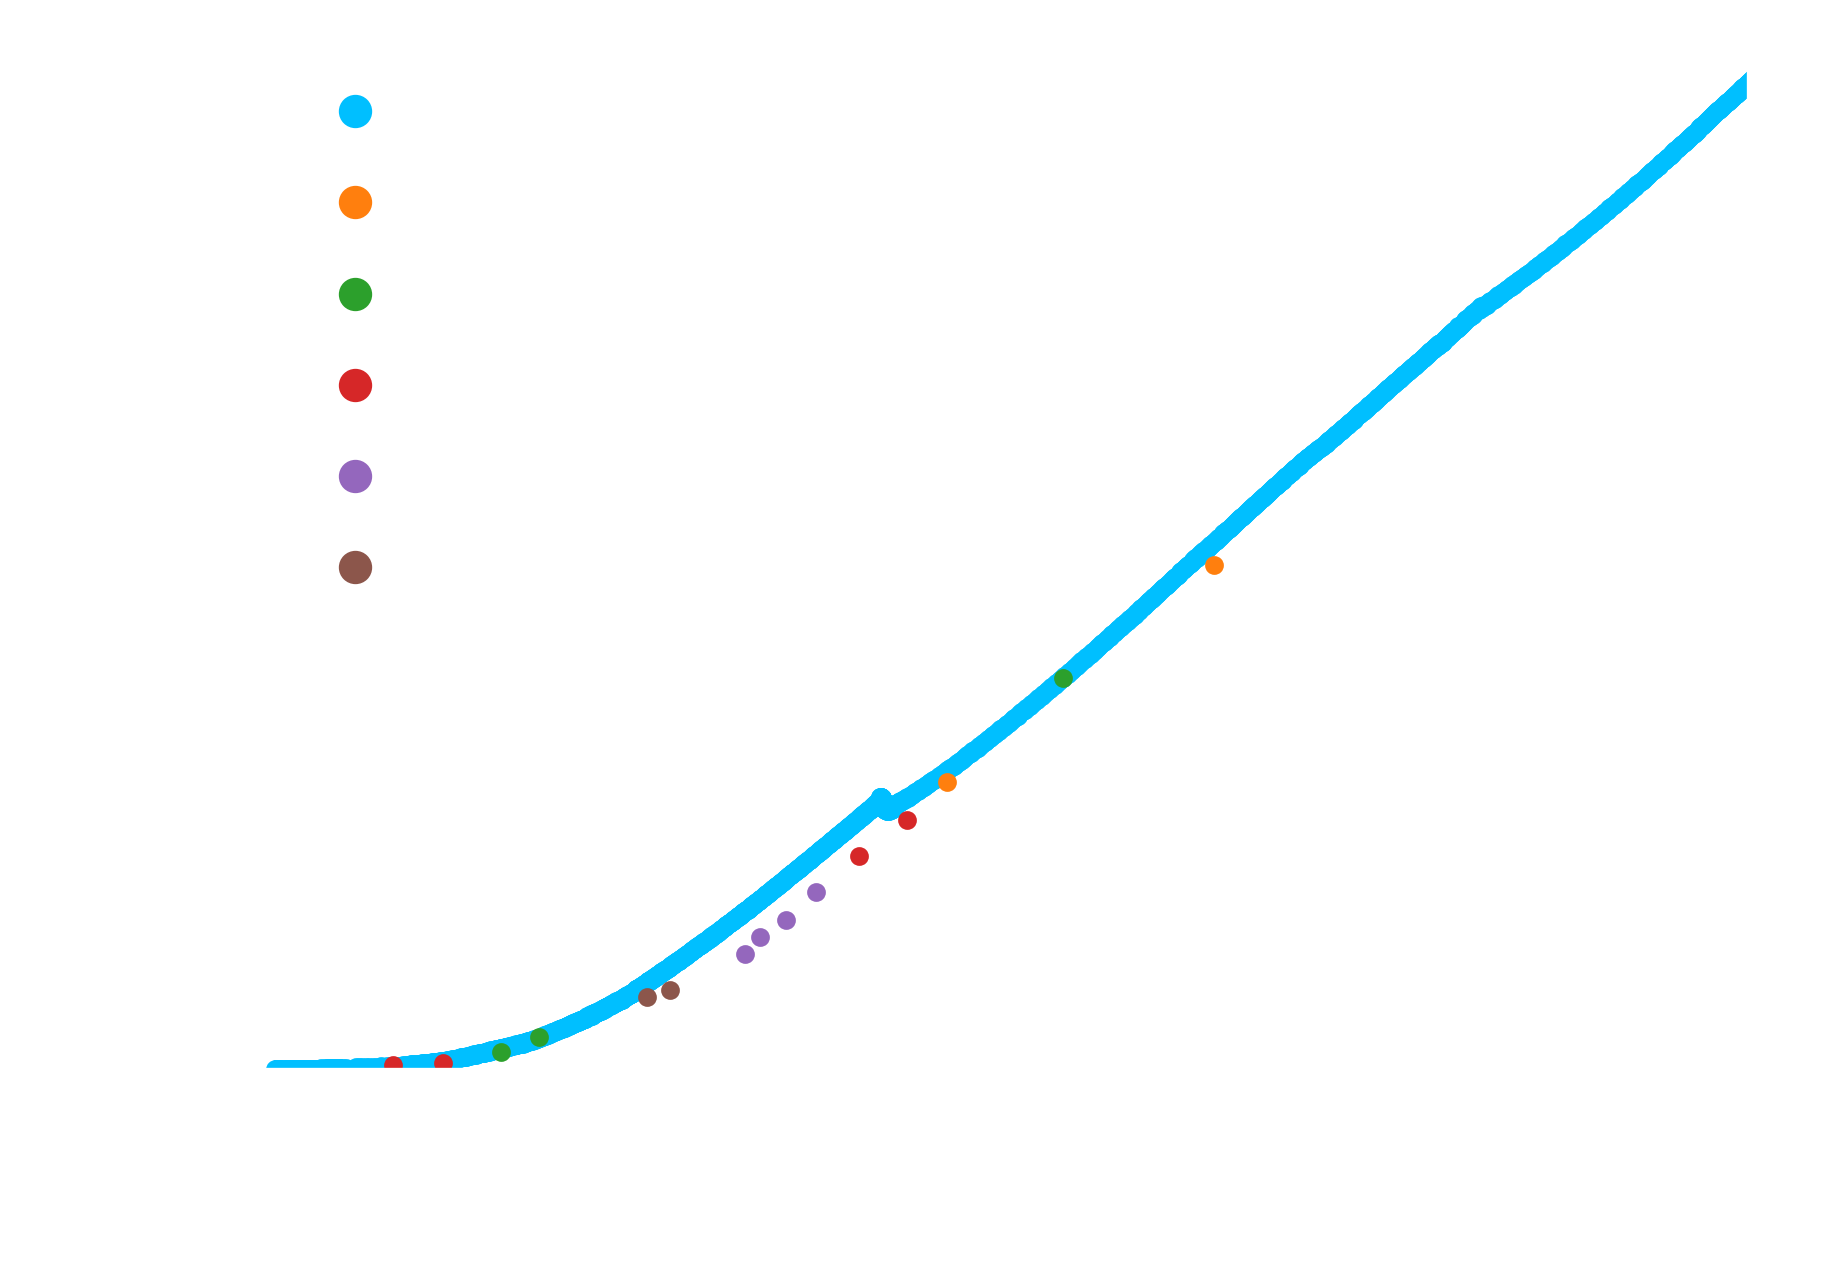
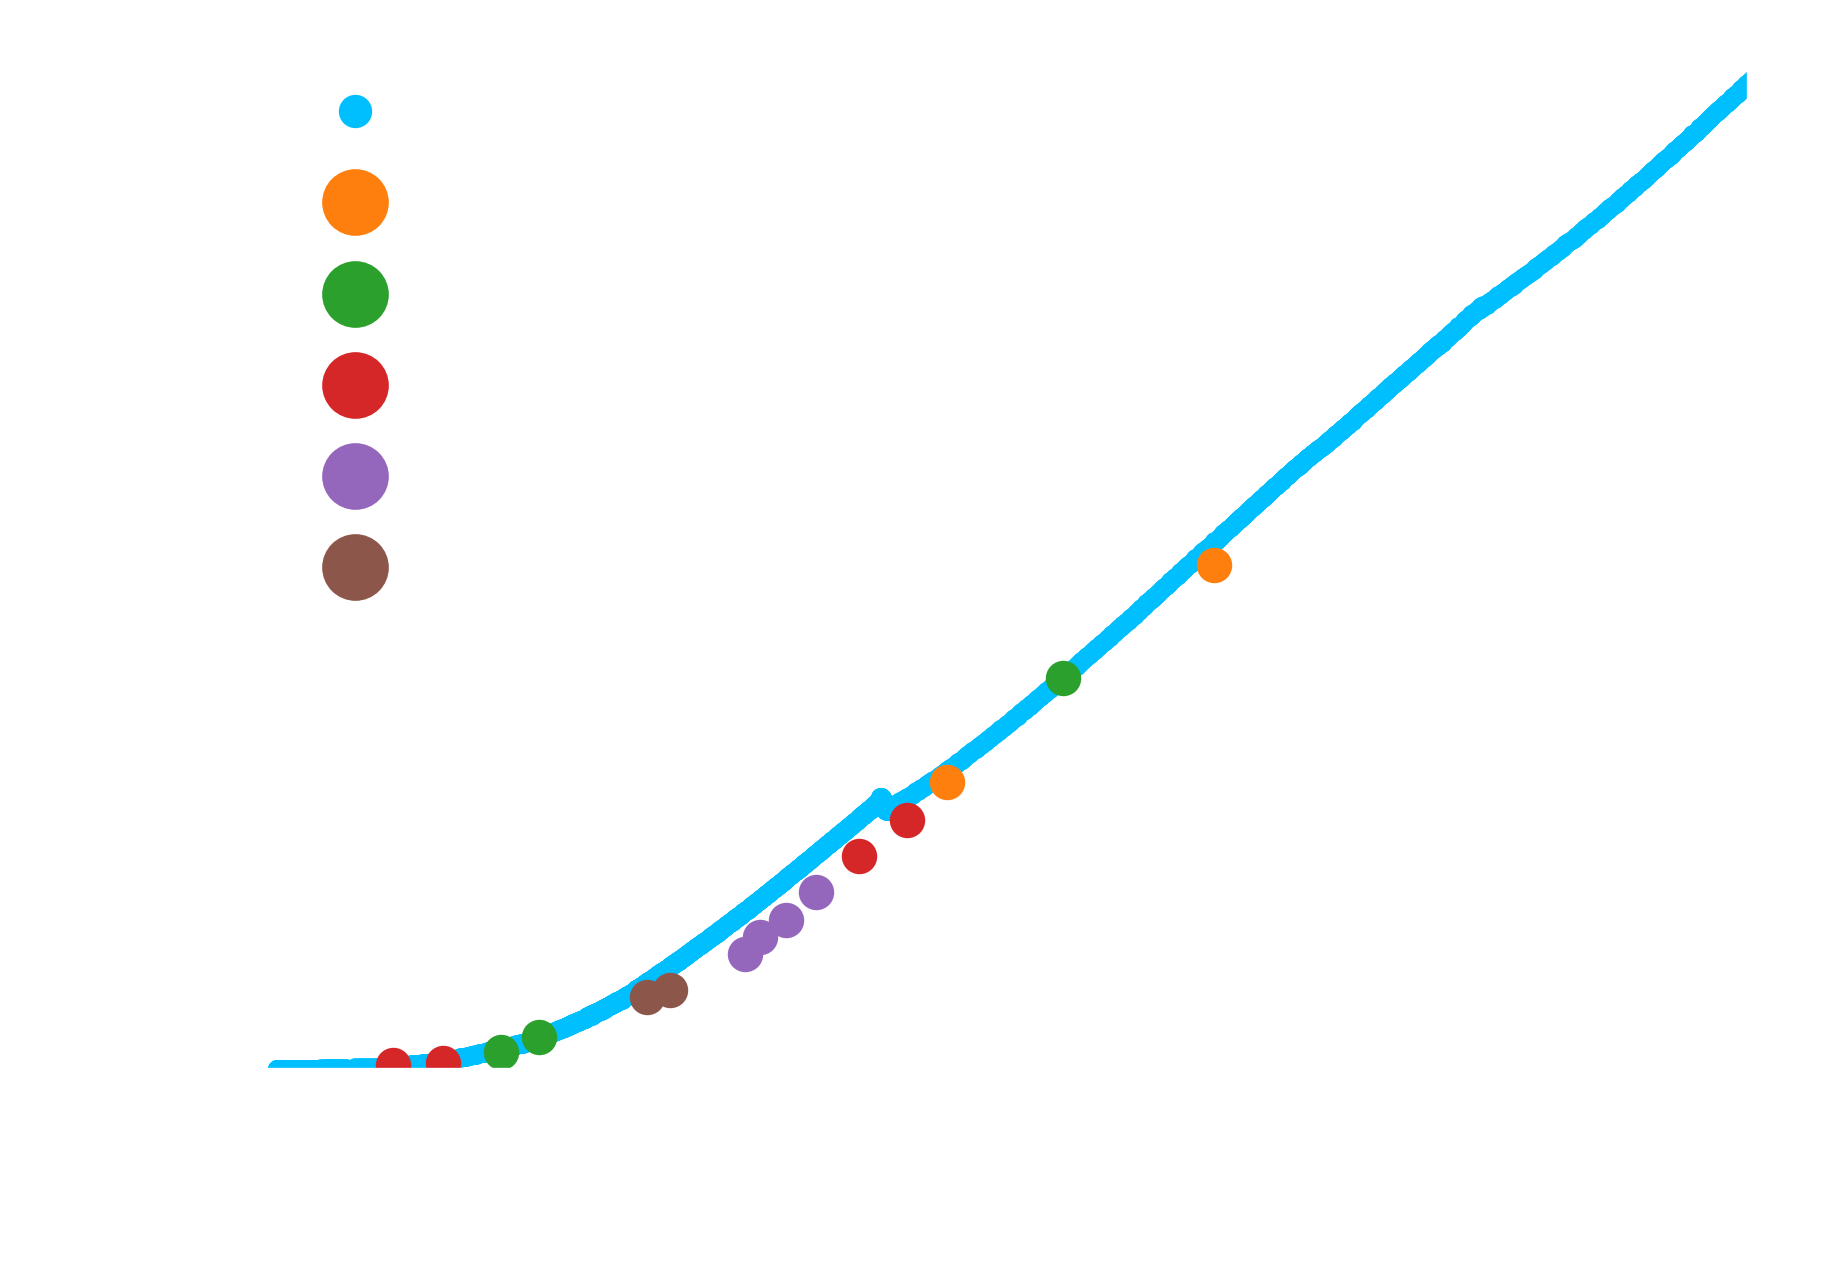
xc

diff --git a/script6.py b/script6.py
@@ -15,8 +15,10 @@ class run:
 		self.dpi = 300
 		self.figsize = (6.5, 4.5)
 		self.figsize2 = (7.5, 4.5)
+		self.figsize3 = (8.5, 4.5)
 		self.markersize = 7
-		self.markersize_fit = 20
+		self.markersize2 = 15
+		self.linewidth_fit = 2
 
 
 	def main(self):
@@ -72,13 +74,13 @@ class run:
 		plt.xlim(0, 5500)
 		plt.ylim(0, 320)
 		maximize()
-		plt.savefig(self.export_folder+"T_plot_warm_up"+self.export_extension, bbox_inches='tight', dpi=self.dpi)
+		plt.savefig(self.export_folder+"T(t)_warm_up"+self.export_extension, bbox_inches='tight', dpi=self.dpi)
 		plt.show()
 		
 		
 		# Plot R_P_1 over T, (R_P_1 = R_Probe_1/Ohm)(Cu)
 		print(r"Resistance of Cu over Temperature")
-		fig = plt.figure(figsize=self.figsize, dpi=80).add_subplot(1, 1, 1)
+		fig = plt.figure(figsize=self.figsize3, dpi=80).add_subplot(1, 1, 1)
 		plt.plot(T,R_P_1,'.', label='Widerstand von Cu', color = "deepskyblue", markersize=self.markersize)
 		plt.xlabel(r"Temperatur T / K")
 		plt.ylabel(r"Widerstand $R_{Cu}$ / $\Omega$")
@@ -86,7 +88,7 @@ class run:
 		plt.xlim(0, 320)
 		plt.ylim(0, 3)
 		maximize()
-		plt.savefig(self.export_folder+"R_Cu(T)_plot"+self.export_extension, bbox_inches='tight', dpi=self.dpi)
+		plt.savefig(self.export_folder+"R_Cu(T)"+self.export_extension, bbox_inches='tight', dpi=self.dpi)
 		plt.show()
 		
 		
@@ -115,12 +117,12 @@ class run:
 		fig = plt.figure(figsize=self.figsize, dpi=80).add_subplot(1, 1, 1)
 		plt.plot(T, R_P_1, '.', label=r'$R_{Cu}$', color = "deepskyblue", markersize=self.markersize)
 		T = np.linspace(T[0],T[-1],1000)
-		plt.plot(T[fit_range[0]:fit_range[1]], func1(T[fit_range[0]:fit_range[1]], *popt), 'r--', label=r"Fit: $R = a\cdot(T+b)^3 + c$", markersize=self.markersize_fit)
+		plt.plot(T[fit_range[0]:fit_range[1]], func1(T[fit_range[0]:fit_range[1]], *popt), 'r--', label=r"Fit: $R = a\cdot(T+b)^3 + c$", linewidth=self.linewidth_fit)
 			
 		plt.xlabel(r"Temperatur T / K")
 		plt.ylabel(r"Widerstand $R_{Cu}$ / $\Omega$")
-		plt.legend()
-		#plt.xlim(0, 50)
+		plt.legend(markerscale=2)
+		plt.xlim(0, None)
 		#plt.ylim(0, 3)
 		maximize()
 		plt.savefig(self.export_folder+"R_Cu(T)_T3_Fit"+self.export_extension, bbox_inches='tight', dpi=self.dpi)
@@ -154,12 +156,12 @@ class run:
 		print(r"Resistance of Cu over Temperature")
 		fig = plt.figure(figsize=self.figsize, dpi=80).add_subplot(1, 1, 1)
 		plt.plot(T,R_P_1,'.',  label=r'$R_{Cu}$', color = "deepskyblue", markersize=self.markersize)
-		plt.plot(T[fit_range[0]:fit_range[1]], lin(T[fit_range[0]:fit_range[1]], *popt), 'r--', label=r"Fit: $R = m\cdot T + n$", markersize=self.markersize_fit)
+		plt.plot(T[fit_range[0]:fit_range[1]], lin(T[fit_range[0]:fit_range[1]], *popt), 'r--', label=r"Fit: $R = m\cdot T + n$", linewidth=self.linewidth_fit)
 			
 		plt.xlabel(r"Temperatur T / K")
 		plt.ylabel(r"Widerstand $R_{Cu}$ / $\Omega$")
-		plt.legend()
-		plt.xlim(0, 320)
+		plt.legend(markerscale=2)
+		plt.xlim(0, None)
 		plt.ylim(0, 3)
 		maximize()
 		plt.savefig(self.export_folder+"R_Cu(T)_T_Fit"+self.export_extension, bbox_inches='tight', dpi=self.dpi)
@@ -206,11 +208,11 @@ class run:
 		print(r"Reduced Resistivity of Cu over reduced Temperature")
 		fig = plt.figure(figsize=self.figsize, dpi=80).add_subplot(1, 1, 1)
 		plt.plot(rho[0], rho[1],'.', label=r'Cu-Probe', color = "deepskyblue", markersize=self.markersize)
-		plt.plot(Na_T, Na_R,'.', color="tab:orange", label='Na', markersize=self.markersize)
-		plt.plot(Au_T, Au_R,'.', color="tab:green", label='Au', markersize=self.markersize)
-		plt.plot(Cu_T, Cu_R,'.', color="tab:red", label='Cu', markersize=self.markersize)
-		plt.plot(Al_T, Al_R,'.', color="tab:purple", label='Al', markersize=self.markersize)
-		plt.plot(Ni_T, Ni_R,'.', color="tab:brown", label='Ni', markersize=self.markersize)
+		plt.plot(Na_T, Na_R,'.', color="tab:orange", label='Na', markersize=self.markersize2)
+		plt.plot(Au_T, Au_R,'.', color="tab:green", label='Au', markersize=self.markersize2)
+		plt.plot(Cu_T, Cu_R,'.', color="tab:red", label='Cu', markersize=self.markersize2)
+		plt.plot(Al_T, Al_R,'.', color="tab:purple", label='Al', markersize=self.markersize2)
+		plt.plot(Ni_T, Ni_R,'.', color="tab:brown", label='Ni', markersize=self.markersize2)
 		
 		plt.xlabel(r"Reduz. Temperatur T / $\Theta_D$")
 		plt.ylabel(r"Reduz. Widerstand R / R($\Theta_D$)")
@@ -220,5 +222,66 @@ class run:
 		maximize()
 		plt.savefig(self.export_folder+"R_Cu(T)_red"+self.export_extension, bbox_inches='tight', dpi=self.dpi)
 		plt.show()
+
 		
+		
+		# Plot R_P_2 over T, (R_P_2 = R_Probe_2/Ohm (Si))
+		print(r"Resistance of Si over Temperature")
+		fig = plt.figure(figsize=self.figsize3, dpi=80).add_subplot(1, 1, 1)
+		plt.plot(T,R_P_2/1e6, '.', label='Widerstand Si', color = "deepskyblue", markersize=self.markersize)
+		plt.xlabel(r"Temperatur T / K")
+		plt.ylabel(r"Widerstand $R_{Si}$ / M$\Omega$")
+		plt.xlim(25, 35)
+		#plt.ylim(0, 120)
+		#plt.yscale('log')
+		maximize()
+		plt.savefig(self.export_folder+"R_Si(T)"+self.export_extension, bbox_inches='tight', dpi=self.dpi)
+		plt.show()
+
+
+			
+		# Plot R_P_2 over T, (R_P_2 = R_Probe_2/Ohm (Si)) 2
+		print(r"Resistance of Si over Temperature 2")
+		fig = plt.figure(figsize=self.figsize3, dpi=80).add_subplot(1, 1, 1)
+		plt.plot(T,R_P_2, '.', label='Widerstand Si', color = "deepskyblue", markersize=self.markersize)
+		plt.xlabel(r"Temperatur T / K")
+		plt.ylabel(r"Widerstand $R_{Si}$ / $\Omega$")
+		plt.xlim(185, 255)
+		plt.ylim(0, 260)
+		#plt.yscale('log')
+		maximize()
+		plt.savefig(self.export_folder+"R_Si(T)_2"+self.export_extension, bbox_inches='tight', dpi=self.dpi)
+		plt.show()
+
+
+			
+		data = dataSet[0]
+		t, T, R_P_1, R_T, R_P_2 = data['t'],data['T'],data['R_P_1'],data['R_T'],data['R_P_2']
+		
+		# Plot T over t
+		print(r"Temperature over time of the cool down process")
+		fig = plt.figure(figsize=self.figsize2, dpi=80).add_subplot(1, 1, 1)
+		plt.plot(t,T,'.', label='Temperature', color = "deepskyblue", markersize=self.markersize)
+		plt.xlabel(r"Zeit t / s")
+		plt.ylabel(r"Temperatur T / K")
+		plt.xlim(0, None)
+		plt.ylim(0, None)
+		maximize()
+		plt.savefig(self.export_folder+"T(t)_cool_down"+self.export_extension, bbox_inches='tight', dpi=self.dpi)
+		plt.show()
+		
+
+			
+		# Plot R_P_1 over T, (R_P_1 = R_Probe_1/Ohm)(Nb)
+		print(r"Resistance of Nb over Temperature")
+		fig = plt.figure(figsize=self.figsize3, dpi=80).add_subplot(1, 1, 1)
+		plt.plot(T,R_P_1,'.', label='Resistance of Nb', color = "deepskyblue", markersize=self.markersize)
+		plt.xlabel(r"Temperatur T / K")
+		plt.ylabel(r"Widerstand $R_{Nb}$ / $\Omega$")
+		plt.xlim(0, None)
+		#plt.ylim(0, None)
+		maximize()
+		plt.savefig(self.export_folder+"R_Nb(T)"+self.export_extension, bbox_inches='tight', dpi=self.dpi)
+		plt.show()
+
 		

diff --git a/script5.py b/script5.py
@@ -11,7 +11,7 @@ class run:
 
 		self.export_folder = "export/script" + __name__[-1] + "/"
 		self.export_extension = ".png"
-		self.dpi = 200
+		self.dpi = 300
 		self.figsize = (6.5, 4.5)
 		self.markersize = 10
 
@@ -174,7 +174,7 @@ class run:
 		fit_plot_range_os_r = [None, None]
 		#fit_plot_range_os_r = fit_range_os_r
 			
-		data = dataSet[2]
+		data = dataSet[1]
 		t_data = data['t']
 		T_data = data['T']
 		R_data = data['R_P_1']
@@ -235,7 +235,7 @@ class run:
 		fit_plot_range_os_r = [None, None]
 		#fit_plot_range_os_r = fit_range_os_r
 			
-		data = dataSet[2]
+		data = dataSet[1]
 		t_data = data['t']
 		T_data = data['T']
 		R_data = data['R_P_1']
@@ -299,7 +299,7 @@ class run:
 		fit_plot_range_os_r = [None, None]
 		#fit_plot_range_os_r = fit_range_os_r
 			
-		data = dataSet[2]
+		data = dataSet[1]
 		t_data = data['t']
 		T_data = data['T']
 		R_data = data['R_P_1']
